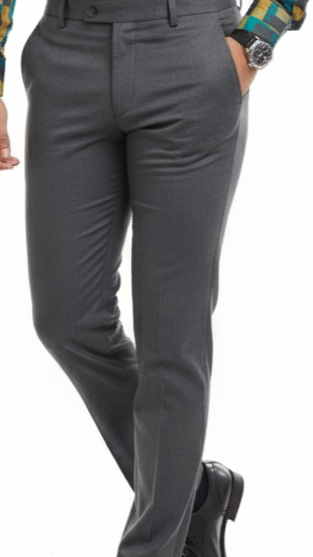
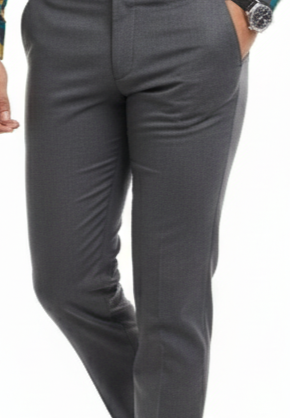
new message

diff --git a/src/component/Display.jsx b/src/component/Display.jsx
@@ -37,32 +37,32 @@ const Display = () => {
           <IoArrowBack size={30} />
         </button>
       </div>
-      <div className="grid grid-cols-2 gap-1  py-4 border-t-1 border-[var(--border-color)]">
-        <div className="relative flex w-[550px] h-[500px] border-r px-2 py-4 ">
-          <div className="flex flex-col w-30 mt-[30px] ">
+      <div className="grid grid-cols-2 gap-1 border-t-1 border-[var(--border-color)]">
+        <div className="relative flex w-[550px] h-[480px] border-r px-2">
+          <div className="flex flex-col h-full mt-[30px]  ">
             <img
-              src={product.image}
+              src=  {product.image}
               alt="image1"
-              className="max-w-40px  object-cover aspect-square rounded-md mt-3"
+              className="object-cover aspect-square rounded-md mt-3 w-30 min-h-[110px]"
               loading="lazy"
             />
             <img
               src={product.image}
               alt="image1"
-              className="max-w-40px  object-cover aspect-square rounded-md mt-3"
+              className="object-cover aspect-square rounded-md mt-3 w-30 min-h-[110px]"
               loading="lazy"
             />
             <img
               src={product.image}
               alt="image1"
               loading="lazy"
-              className="max-w-40px  object-cover aspect-square rounded-md mt-3"
+              className="object-cover aspect-square rounded-md mt-3 w-30 min-h-[110px]"
             />
             <img
               src={product.image}
               alt="image1"
               loading="lazy"
-              className="max-w-40px  object-cover aspect-square rounded-md mt-3  "
+              className=" object-cover aspect-square rounded-md mt-3 w-30 min-h-[110px]"
             />
           </div>
           <div className="flex">
@@ -103,7 +103,7 @@ const Display = () => {
               <h1 className="text-3xl text-[var(--text-color)] font-bold mb-4 tracking-tight">
                 {product.name}
               </h1>
-              <div className="flex flex-row items-center justify-between w-full gap-4 mb-6">
+              <div className="flex flex-row items-center justify-between w-full mb-1">
                 <div className="flex items-center gap-3">
                   <span className="text-2xl font-bold text-[var(--heading-color)]">
                     Rs . {product.price.toFixed(2)}
@@ -112,7 +112,7 @@ const Display = () => {
                     Rs . {product.actualPrice.toFixed(2)}
                   </span>
                 </div>
-                <div className="flex items-center gap-2 bg-[var(--input-color)] px-3 py-1.5 rounded-full">
+                <div className="flex items-center gap-2 bg-[var(--input-color)] px-3 py-1 rounded-full">
                   <IoStar className="text-yellow-400 text-lg" />
                   <span className="text-[var(--text-color)] font-bold">
                     {product.rating}
@@ -123,14 +123,14 @@ const Display = () => {
                 </div>
               </div>
             </div>
-          </div>
+          </div>  
 
-          <div className="mb-6 border-t border-[var(--border-color)] border-dashed pt-6">
+          <div className="mb-3 border-t border-[var(--border-color)] border-dashed pt-3">
             <h2 className="text-[var(--text-color)] font-bold mb-3 flex items-center gap-2">
-              <span className="w-1.5 h-1.5 rounded-full bg-[var(--heading-color)]"></span>
+              <span className="w-1.5 h-1.5 text-bold rounded-full bg-[var(--heading-color)]"></span>
               Description
             </h2>
-            <p className="text-[0.95rem] text-[var(--text-secondary)] leading-relaxed">
+            <p className="text-[0.95rem] text-[var(--text-secondary)] leading-relaxed">   
               Boba etiam ut bulla tea est potus electus singulari compositione
               saporum et textuum, quae in Taiwan annis 1980 orta sunt. Boba
               refert ad pitas marnicas tapiocas in fundo potus inventas, quae

diff --git a/src/component/Offers.jsx b/src/component/Offers.jsx
@@ -7,12 +7,12 @@ export default function Offers() {
       <h2 className="text-4xl font-bold mb-5 text-[var(--heading-color)] ml-9">
         Special Offers
       </h2>
-      <div className="flex justify-evenly">
+      <div className="flex justify-evenly" data-aos="fade-right">
         <div className="flex flex-col gap-4 mx-auto overflow-visible ">
           {offers.map((offer, index) => (
             <div
               key={index}
-              className={`${offer.bg} min-w-[600px]  text-[var(--text-color)] rounded-2xl px-5 py-2 border-1 shadow-lg flex flex-col hover:scale-y-80`}
+              className={`${offer.bg} min-w-[600px]  text-[var(--text-color)] rounded-2xl px-5 py-2  shadow-lg flex flex-col border-l-2 hover:scale-y-105 transition-all duration-300 hover:shadow-2xl hover:border-blue-200`}
             >
                 <div className="flex justify-between items-center">
                   <h3 className="text-2xl font-italic text-[var(--heading-secondary)]">
@@ -28,7 +28,7 @@ export default function Offers() {
               </div>
           ))}
         </div>
-        <div>
+        <div data-aos="fade-left">
           <img src={Image} alt="display" className="w-[350px]" loading="lazy" />
         </div>
       </div>

diff --git a/src/component/Collections.jsx b/src/component/Collections.jsx
@@ -1,5 +1,7 @@
 import collections from "./Assets/collection";
 
+const aosAnimations = ["fade-right", "fade-left", "fade-up", "fade-down"]
+
 export default function Collections() {
   return (
     <section className="px-5 py-5 max-w-[1200px] mx-auto relative left-1 " id="trending">
@@ -13,16 +15,17 @@ export default function Collections() {
       </div>
 
       <div className="grid grid-cols-4 gap-3">
-        {collections.map((item) => (
+        {collections.map((item, index) => (
           <div
             key={item.id}
+             data-aos={aosAnimations[index % aosAnimations.length]}
             className="group relative rounded-xl overflow-hidden shadow-lg cursor-pointer"
           >
             <img
               src={item.image}
               alt={item.title}
               loading="lazy"
-              className="h-100 w-full object-cover transform group-hover:scale-110 transition duration-500"
+              className="h-80 w-full object-cover transform group-hover:scale-110 transition duration-500"
             />
 
             <div className="absolute inset-0 bg-black/40 flex flex-col justify-end p-4">

diff --git a/src/component/Home.jsx b/src/component/Home.jsx
@@ -1,5 +1,4 @@
 import displyImage1 from "./Assets/display-1.png";
-import { FaArrowRight } from "react-icons/fa";
 
 export default function Home() {
   return (
@@ -22,11 +21,6 @@ export default function Home() {
               With so much demand for a style of board where every aspect of it
               flews, we created a new series
             </p>
-            <div className="flex flex-row justify-items-start">
-              <button className="btn flex flex-row rounded-xl text-white border-none ">
-                Explore Now <FaArrowRight className=" text-2xl p-1" />
-              </button>
-            </div>
           </div>
         </div>
       </div>

diff --git a/src/App.jsx b/src/App.jsx
@@ -1,3 +1,6 @@
+import AOS from "aos";
+import "aos/dist/aos.css";
+import { useEffect } from "react";
 import "./App.css";
 import SideBar from "./component/SideBar";
 import AppRouter from "./component/AppRouter";
@@ -5,6 +8,14 @@ import Navbar from "./component/Navbar";
 import ScrollToTop from "./component/ScrollToTop";
 
 const App = () => {
+   useEffect(() => {
+    AOS.init({
+      duration: 1000,
+      once: false,
+      easing: "ease-in-out",
+      mirror: true,
+    });
+  }, []);
   return (
     <>
       <Navbar />

diff --git a/src/Pages/Favourite.jsx b/src/Pages/Favourite.jsx
@@ -8,7 +8,7 @@ const Favourite = () => {
     const { watchlist, all_product } = useContext(ShopContext);
     const navigate = useNavigate();
     return (
-        <div className="relative top-15 bg-[var(--bg-color)]">
+        <div className="relative top-15 bg-[var(--bg-color)] min-h-screen">
             {all_product.some(p => watchlist.includes(p.id)) && (
                 <div className="mt-12 px-4">
                     <div className="text-center w-full flex  gap-2 border-b-2 border-gray-200">

diff --git a/src/component/ProductDetails.jsx b/src/component/ProductDetails.jsx
@@ -35,7 +35,7 @@ const ProductDetails = ({ product, cartItems }) => {
               <img
                 src={product.image}
                 alt={product.name}
-                className="w-[250px] h-[400px] object-center rounded-2xl border border-[var(--border-color)] shadow-sm"
+                className="h-[320px] object-center rounded-2xl border border-[var(--border-color)] shadow-sm"
               />
             </div>
           </div>
